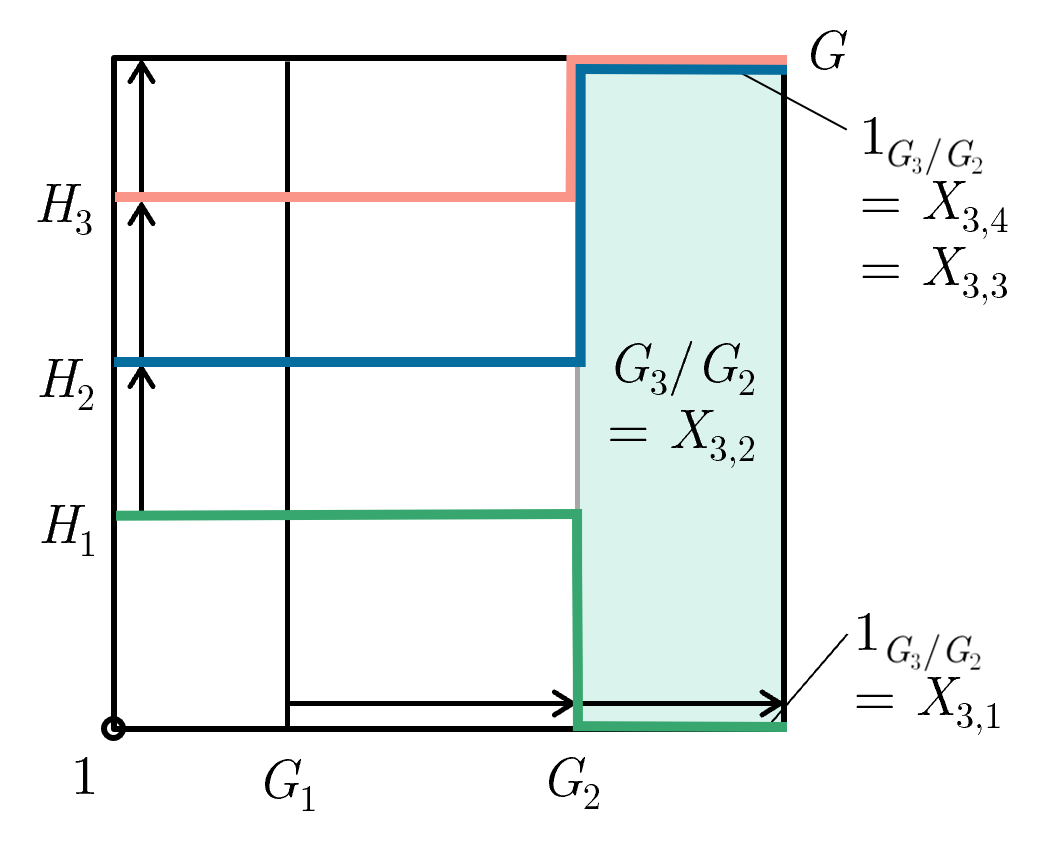
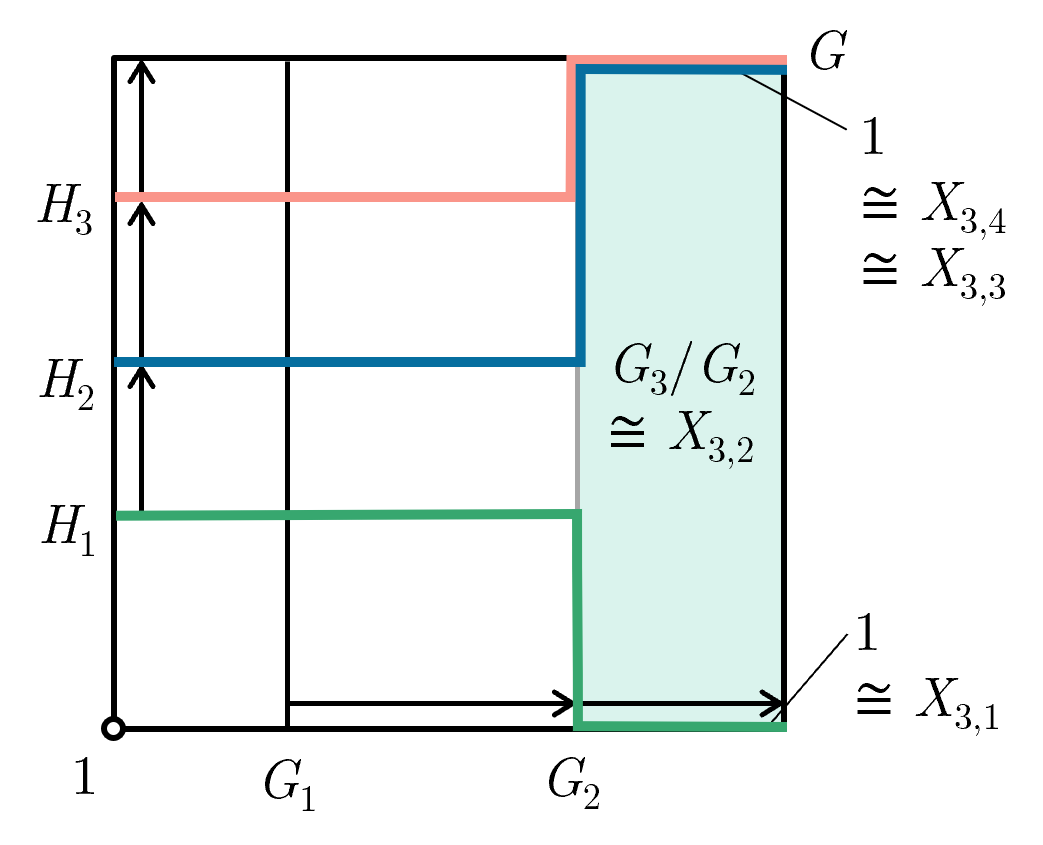
final edits

diff --git a/_posts/2022-12-21-visual-proof-schreier-jordan-holder.md b/_posts/2022-12-21-visual-proof-schreier-jordan-holder.md
@@ -69,7 +69,7 @@ Well visually, we can see two ways to describe the factor group $X_{i,j}$:
 2. $H_{j-1} (H_j \cap G_i) \;/\; H_{j-1} (H_j \cap G_{i-1})$
 
 <center style="filter:invert(100%)">
-<img style="width:calc(min(100%, 800px));" src="/assets/posts/2022-12-21-visual-proof-schreier-jordan-holder/visual-3.png" lazy>
+<img id="visual-3" style="width:calc(min(100%, 800px));" src="/assets/posts/2022-12-21-visual-proof-schreier-jordan-holder/visual-3.png" lazy>
 </center>
 
 We can hence define two sequences which involves starting from $1$ and iteratively appending more $X_{i,j}$ factor groups both column-wise and row-wise respectively until we reach $G$. Appending column-wise we get $\Sigma_G'$ which _contains_ $\Sigma_G$, and appending row-wise we get $\Sigma_H'$ which _contains_ $\Sigma_H$.
@@ -107,7 +107,7 @@ Visually it is obvious that both $\Sigma_G'$ and $\Sigma_H'$ _contains_ $\Sigma_
 
 ### Jordan-Hölder Theorem
 
-Now suppose instead of just subnormal series $\Sigma_G$ and $\Sigma_H$ of $G$, we have $\Sigma_G$ and $\Sigma_H$ be _composition series_. Informally, this means each factor group of $\Sigma_G$ and $\Sigma_H$ is simple and hence cannot be "sliced further". This means our $X_{i,j}$ factor groups must be equal, up to permutation, to the factor groups of $\Sigma_G$ (and of $\Sigma_H$), after removing trivial factor groups ($X_{i,j} = 1$). Hence the constructed series $\Sigma_G'$ and $\Sigma_H'$ will have duplicates, and after removing those duplicates we must have $\Sigma_G' = \Sigma_G$ and $\Sigma_H' = \Sigma_H$. Since $\Sigma_G'$ and $\Sigma_H'$ have the same factor groups up till permutation, we've proven the Jordan-Hölder Theorem.
+Now suppose instead of just subnormal series $\Sigma_G$ and $\Sigma_H$ of $G$, we have $\Sigma_G$ and $\Sigma_H$ be _composition series_. Informally, this means each factor group of $\Sigma_G$ and $\Sigma_H$ is simple and hence cannot be "sliced further". This means our $X_{i,j}$ factor groups must be equal, up to permutation, to the factor groups of $\Sigma_G$ (and of $\Sigma_H$), after removing trivial factor groups ($X_{i,j} = 1$). Hence the constructed series $\Sigma_G'$ and $\Sigma_H'$ will have duplicates, and after removing those duplicates we must have $\Sigma_G' = \Sigma_G$ and $\Sigma_H' = \Sigma_H$. Since $\Sigma_G'$ and $\Sigma_H'$ have the same factor groups up till permutation, we can say the same thing for $\Sigma_G$ and $\Sigma_H$. **Done.**
 
 Visually, suppose we have the factor group $G_3/G_2$ be simple and hence cannot be sliced further. Then we must have $X_{3,1}$, $X_{3,2}$, $X_{3,3}$, $X_{3,4}$ be isomorphic to either $1$ or $G_3/G_2$, which can be represented visually as such:
 
@@ -115,12 +115,18 @@ Visually, suppose we have the factor group $G_3/G_2$ be simple and hence cannot 
 <img style="width:calc(min(100%, 600px));" src="/assets/posts/2022-12-21-visual-proof-schreier-jordan-holder/visual-4.png" lazy>
 </center>
 
-This visually explains why some $X_{i,j}$ will be trivial factor groups. 
+This visually explains why some $X_{i,j}$ will be trivial. 
 
 ## Justifications
 
-### Factor groups of $\Sigma_G'$ and $\Sigma_H'$ are well-defined
+We have shown visually that the factor group $X_{i,j}$ can be given as:
 
+1. $G_{i-1} (G_i \cap H_j) \;/\; G_{i-1} (G_i \cap H_{j-1})$
+2. $H_{j-1} (H_j \cap G_i) \;/\; H_{j-1} (H_j \cap G_{i-1})$
 
+but we still need to justify that they _are_ isomorphic.
 
-### Equivalence of the factor groups from $\Sigma_G'$ and $\Sigma_H'$
+I refer to the [above image](#visual-3) and to [the butterfly lemma visual in my previous post](/mathematics/2022/12/15/homomorphism-illustrated.html#butterfly-slice). Both images do look really similar doesn't it? That's because we can apply the Butterfly Lemma to the tuple $(A,B,C,D) = (G_i, G_{i-1}, H_j, H_{j-1})$, which is justified as $G_{i-1} \trianglelefteq G_i$ and $H_{j-1} \trianglelefteq H_j$.
+
+The butterfly lemma also shows that the factor groups $X_{i,j}$ are well-defined, as we've also shown that $G_{i-1} (G_i \cap H_{j-1}) \trianglelefteq G_{i-1} (G_i \cap H_j)$ and $H_{j-1} (H_j \cap G_{i-1}) \trianglelefteq H_{j-1} (H_j \cap G_i)$
+

diff --git a/_posts/2022-12-15-homomorphism-illustrated.md b/_posts/2022-12-15-homomorphism-illustrated.md
@@ -354,7 +354,7 @@ Now recall that above, the Butterfly Lemma, when visualised with the lattice, lo
 > $$\frac{(A\cap C)B}{(A\cap D)B} \cong \color{cyan}{\frac{A \cap C}{(A \cap D)(B \cap C)}} \cong \frac{(A\cap C)D}{(B\cap C)D}$$
 > 
 > <center style="filter:invert(100%)">
-> <img style="width:calc(min(100%, 1000px));" src="/assets/posts/2022-12-15-homomorphism-illustrated/butterfly-slice.png">
+> <img id="butterfly-slice" style="width:calc(min(100%, 1000px));" src="/assets/posts/2022-12-15-homomorphism-illustrated/butterfly-slice.png">
 > </center>
 > 
 > Are you able to see the Diamond Isomorphism Theorem that's used to prove the Butterfly Lemma? If not, do go back up to see how the Diamond Isomorphism Theorem looks like in our visuals. 
